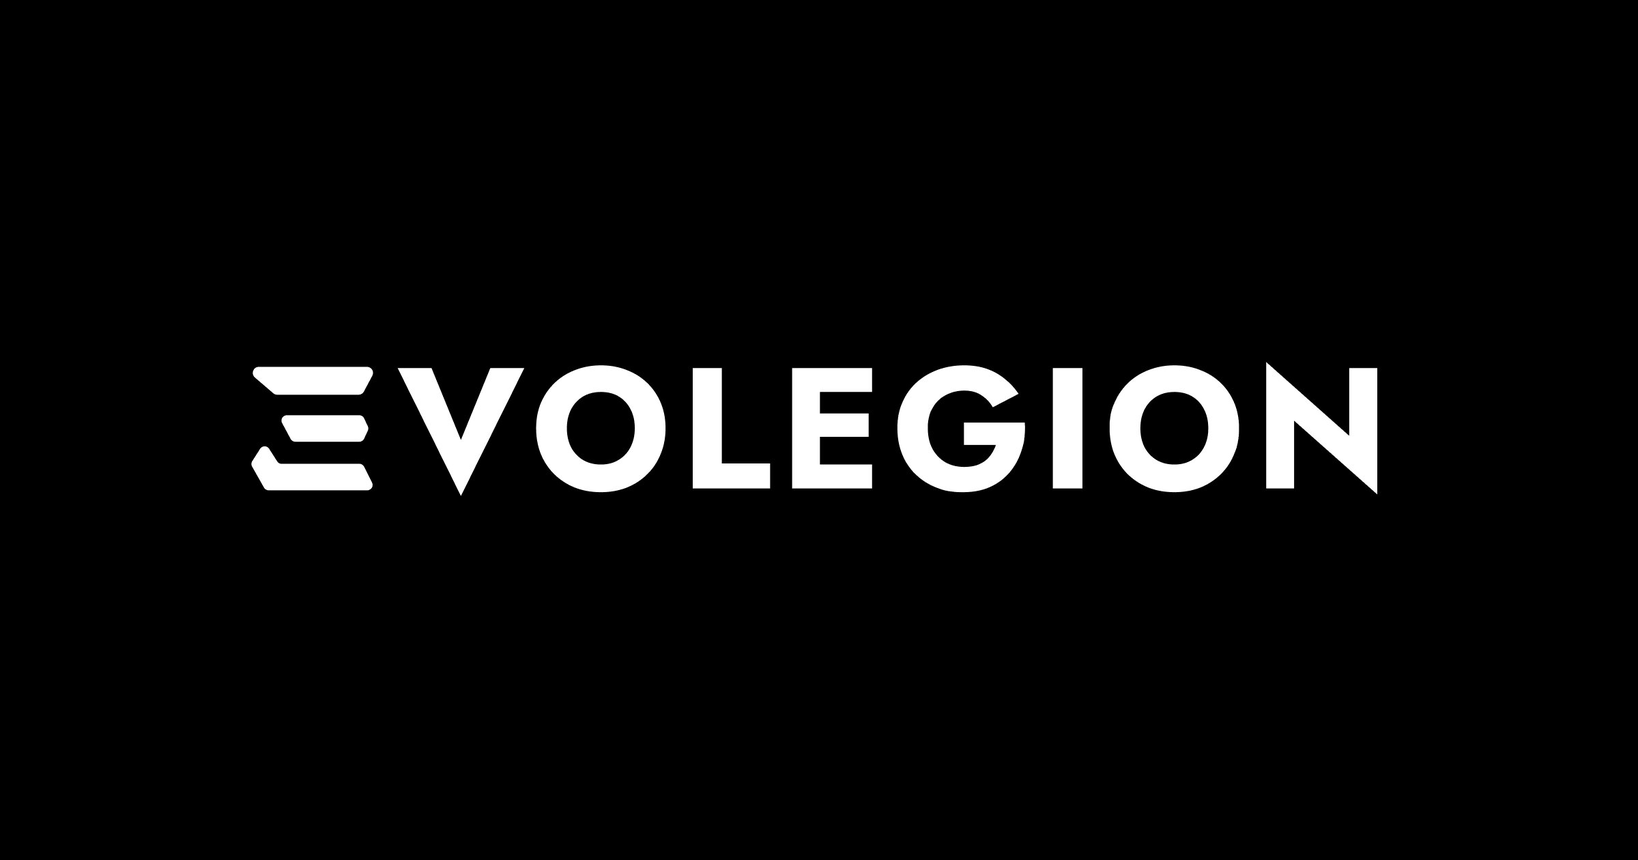
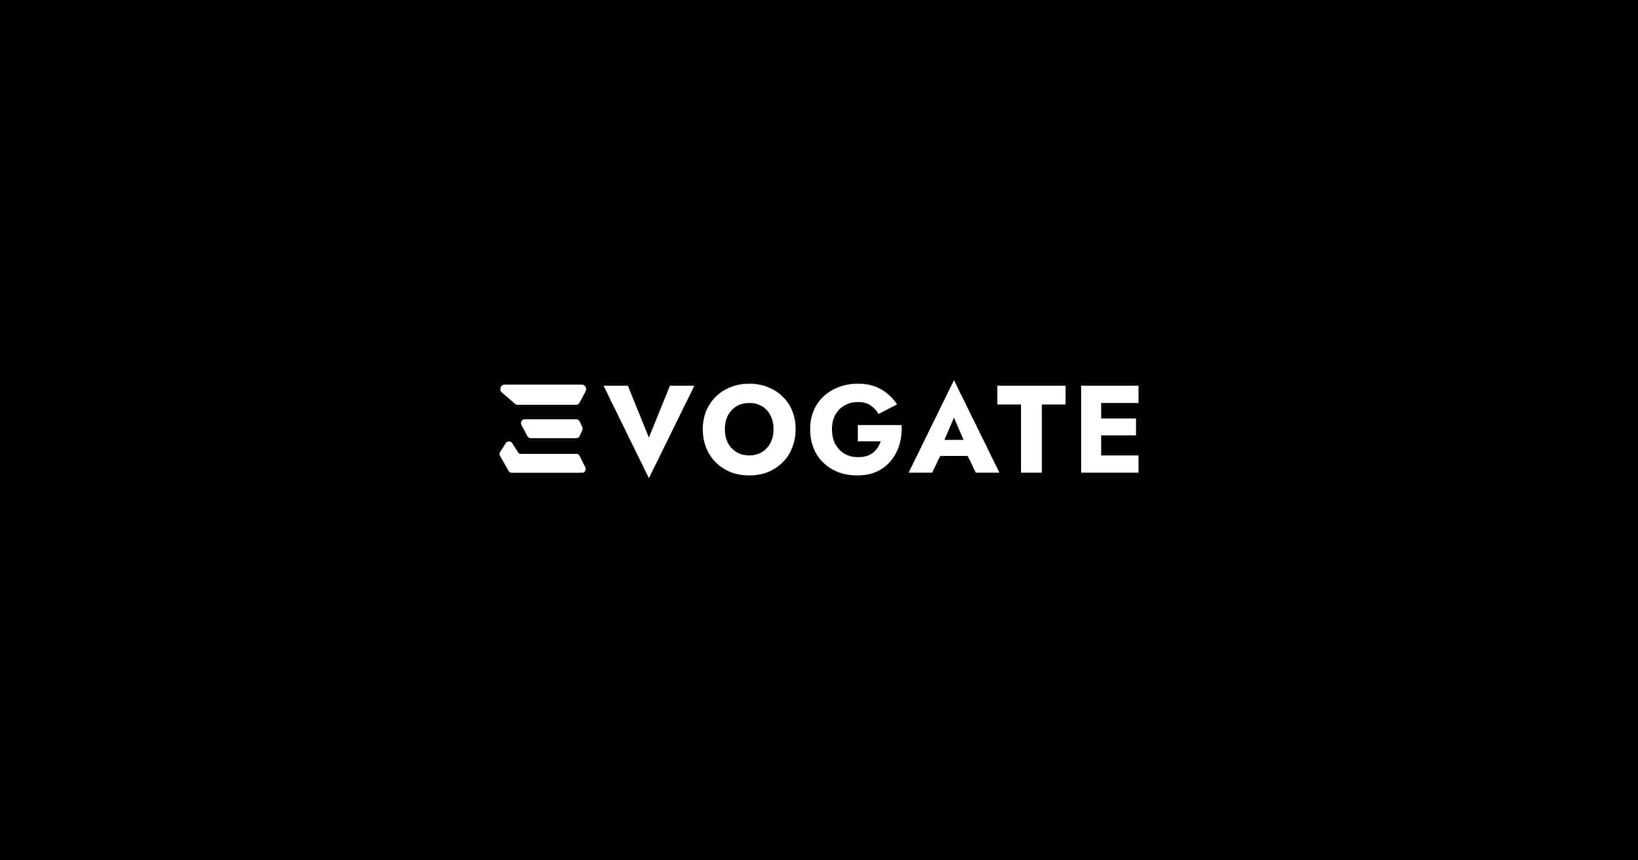
changed name to evogate

Changed region(s): [[0.1562, 0.4024, 0.8438, 0.5881]]

diff --git a/src/privacy.html b/src/privacy.html
@@ -3,21 +3,21 @@
 <head>
     <meta charset="UTF-8">
     <meta name="viewport" content="width=device-width, initial-scale=1.0">
-    <title>Evolegion - Terms and Condition</title>
+    <title>Evogate - Terms and Condition</title>
 
-    <meta name="title" content="Evolegion - A Web3 Brand Providing Tools and Services">
+    <meta name="title" content="Evogate - A Web3 Brand Providing Tools and Services">
     <meta name="description" content="A web3 brand providing tools and services with creativity and entertainment.">
     <meta name="keywords" content="web3,NFT,play to earn, ">
     <meta name="robots" content="index, follow">
     <meta name="language" content="English">
-    <link rel="canonical" href="https://evolegion.io" />
+    <link rel="canonical" href="https://evogate.io" />
     <meta content="assets/images/share.jpg" property="og:image">
 	<meta property="og:type" content="website">
-	<meta content="https://www.evolegion.io/" property="og:url">
-	<meta content="Evolegion - A Web3 Brand Providing Tools and Services" property="og:title">
+	<meta content="https://www.evogate.io/" property="og:url">
+	<meta content="Evogate - A Web3 Brand Providing Tools and Services" property="og:title">
 	<meta content="A web3 brand providing tools and services with creativity and entertainment." property="og:description" >
 	<meta name="twitter:card" content="summary_large_image">
-	<meta name="twitter:title" content="Evolegion - A Web3 Brand Providing Tools and Services">
+	<meta name="twitter:title" content="Evogate - A Web3 Brand Providing Tools and Services">
 	<meta name="twitter:description" content="A web3 brand providing tools and services with creativity and entertainment." >
 	<meta name="twitter:image" content="assets/images/share.jpg" >
 
@@ -46,15 +46,15 @@
     </nav>
     <div class="container">
         <div class="terms container-maxwidth-md mb-10">
-            <h1>Privacy Policy for Evolegion</h1>
+            <h1>Privacy Policy for Evogate</h1>
             <p>Last updated: May 21, 2022</p>
             <hr class="my-6" />
 
-            <p style="margin-top: 2rem;">At Evolegion, accessible from evolegion.io, one of our main priorities is the privacy of our visitors. This Privacy Policy document contains types of information that is collected and recorded by Evolegion and how we use it.</p>
+            <p style="margin-top: 2rem;">At Evogate, accessible from evogate.io, one of our main priorities is the privacy of our visitors. This Privacy Policy document contains types of information that is collected and recorded by Evogate and how we use it.</p>
 
             <p>If you have additional questions or require more information about our Privacy Policy, do not hesitate to contact us.</p>
 
-            <p>This Privacy Policy applies only to our online activities and is valid for visitors to our website with regards to the information that they shared and/or collect in Evolegion. This policy is not applicable to any information collected offline or via channels other than this website. Our Privacy Policy was created with the help of the Free Privacy Policy Generator</p>
+            <p>This Privacy Policy applies only to our online activities and is valid for visitors to our website with regards to the information that they shared and/or collect in Evogate. This policy is not applicable to any information collected offline or via channels other than this website. Our Privacy Policy was created with the help of the Free Privacy Policy Generator</p>
 
             <h2>Consent</h2>
 
@@ -82,11 +82,11 @@
 
             <h2>Log Files</h2>
 
-            <p>Evolegion follows a standard procedure of using log files. These files log visitors when they visit websites. All hosting companies do this and a part of hosting services' analytics. The information collected by log files include internet protocol (IP) addresses, browser type, Internet Service Provider (ISP), date and time stamp, referring/exit pages, and possibly the number of clicks. These are not linked to any information that is personally identifiable. The purpose of the information is for analyzing trends, administering the site, tracking users' movement on the website, and gathering demographic information.</p>
+            <p>Evogate follows a standard procedure of using log files. These files log visitors when they visit websites. All hosting companies do this and a part of hosting services' analytics. The information collected by log files include internet protocol (IP) addresses, browser type, Internet Service Provider (ISP), date and time stamp, referring/exit pages, and possibly the number of clicks. These are not linked to any information that is personally identifiable. The purpose of the information is for analyzing trends, administering the site, tracking users' movement on the website, and gathering demographic information.</p>
 
             <h2>Cookies and Web Beacons</h2>
 
-            <p>Like any other website, Evolegion uses 'cookies'. These cookies are used to store information including visitors' preferences, and the pages on the website that the visitor accessed or visited. The information is used to optimize the users' experience by customizing our web page content based on visitors' browser type and/or other information.</p>
+            <p>Like any other website, Evogate uses 'cookies'. These cookies are used to store information including visitors' preferences, and the pages on the website that the visitor accessed or visited. The information is used to optimize the users' experience by customizing our web page content based on visitors' browser type and/or other information.</p>
 
             <p>For more general information on cookies, please read <a href="https://www.termsfeed.com/blog/sample-cookies-policy-template/#What_Are_Cookies">the Cookies article on TermsFeed website</a>.</p>
 
@@ -94,15 +94,15 @@
 
             <h2>Advertising Partners Privacy Policies</h2>
 
-            <P>You may consult this list to find the Privacy Policy for each of the advertising partners of Evolegion.</p>
+            <P>You may consult this list to find the Privacy Policy for each of the advertising partners of Evogate.</p>
 
-            <p>Third-party ad servers or ad networks uses technologies like cookies, JavaScript, or Web Beacons that are used in their respective advertisements and links that appear on Evolegion, which are sent directly to users' browser. They automatically receive your IP address when this occurs. These technologies are used to measure the effectiveness of their advertising campaigns and/or to personalize the advertising content that you see on websites that you visit.</p>
+            <p>Third-party ad servers or ad networks uses technologies like cookies, JavaScript, or Web Beacons that are used in their respective advertisements and links that appear on Evogate, which are sent directly to users' browser. They automatically receive your IP address when this occurs. These technologies are used to measure the effectiveness of their advertising campaigns and/or to personalize the advertising content that you see on websites that you visit.</p>
 
-            <p>Note that Evolegion has no access to or control over these cookies that are used by third-party advertisers.</p>
+            <p>Note that Evogate has no access to or control over these cookies that are used by third-party advertisers.</p>
 
             <h2>Third Party Privacy Policies</h2>
 
-            <p>Evolegion's Privacy Policy does not apply to other advertisers or websites. Thus, we are advising you to consult the respective Privacy Policies of these third-party ad servers for more detailed information. It may include their practices and instructions about how to opt-out of certain options. </p>
+            <p>Evogate's Privacy Policy does not apply to other advertisers or websites. Thus, we are advising you to consult the respective Privacy Policies of these third-party ad servers for more detailed information. It may include their practices and instructions about how to opt-out of certain options. </p>
 
             <p>You can choose to disable cookies through your individual browser options. To know more detailed information about cookie management with specific web browsers, it can be found at the browsers' respective websites.</p>
 
@@ -129,17 +129,17 @@
 
             <p>Another part of our priority is adding protection for children while using the internet. We encourage parents and guardians to observe, participate in, and/or monitor and guide their online activity.</p>
 
-            <p>Evolegion does not knowingly collect any Personal Identifiable Information from children under the age of 13. If you think that your child provided this kind of information on our website, we strongly encourage you to contact us immediately and we will do our best efforts to promptly remove such information from our records.</p>
+            <p>Evogate does not knowingly collect any Personal Identifiable Information from children under the age of 13. If you think that your child provided this kind of information on our website, we strongly encourage you to contact us immediately and we will do our best efforts to promptly remove such information from our records.</p>
         </div>
 
 
         <div class="footer">
-            <p>©2023 Evolegion. All rights reserved </p>
+            <p>©2023 Evogate. All rights reserved </p>
             <div class="links">
                 <div style="line-height: 0;">
                     <a href="https://twitter.com/teamevolegion" target="_blank">Twitter</a>
                     <a href="https://www.youtube.com/channel/UCfJieutMxnUK4FANwNWWnQg" target="_blank">Youtube</a>
-                    <a href="https://github.com/Evolegion" target="_blank">Github</a>
+                    <a href="https://github.com/Evogate" target="_blank">Github</a>
                 </div>
                 <div style="line-height: 0;">
                     <a href="privacy.html">Privacy</a>
@@ -152,7 +152,7 @@
             <div class="panel">
                 <a href="https://twitter.com/teamevolegion" target="_blank">Twitter</a>
                 <a href="https://www.youtube.com/channel/UCfJieutMxnUK4FANwNWWnQg" target="_blank">Youtube</a>
-                <a href="https://github.com/Evolegion" target="_blank">Github</a>
+                <a href="https://github.com/Evogate" target="_blank">Github</a>
             </div>
 
             <button class="accordion">Legal</button>
@@ -161,7 +161,7 @@
                 <a href="terms-and-conditions.html">Terms and Condition</a>
             </div>
 
-            <p class="text pt-2">©2023 Evolegion. All rights reserved </p>
+            <p class="text pt-2">©2023 Evogate. All rights reserved </p>
         </div>
     </div>
 </body>

diff --git a/src/terms-and-conditions.html b/src/terms-and-conditions.html
@@ -3,21 +3,21 @@
 <head>
     <meta charset="UTF-8">
     <meta name="viewport" content="width=device-width, initial-scale=1.0">
-    <title>Evolegion - Terms and Condition</title>
+    <title>Evogate - Terms and Condition</title>
 
-    <meta name="title" content="Evolegion - A Web3 Brand Providing Tools and Services">
+    <meta name="title" content="Evogate - A Web3 Brand Providing Tools and Services">
     <meta name="description" content="A web3 brand providing tools and services with creativity and entertainment.">
     <meta name="keywords" content="web3,NFT,play to earn, ">
     <meta name="robots" content="index, follow">
     <meta name="language" content="English">
-    <link rel="canonical" href="https://evolegion.io" />
+    <link rel="canonical" href="https://evogate.io" />
     <meta content="assets/images/share.jpg" property="og:image">
 	<meta property="og:type" content="website">
-	<meta content="https://www.evolegion.io/" property="og:url">
-	<meta content="Evolegion - A Web3 Brand Providing Tools and Services" property="og:title">
+	<meta content="https://www.evogate.io/" property="og:url">
+	<meta content="Evogate - A Web3 Brand Providing Tools and Services" property="og:title">
 	<meta content="A web3 brand providing tools and services with creativity and entertainment." property="og:description" >
 	<meta name="twitter:card" content="summary_large_image">
-	<meta name="twitter:title" content="Evolegion - A Web3 Brand Providing Tools and Services">
+	<meta name="twitter:title" content="Evogate - A Web3 Brand Providing Tools and Services">
 	<meta name="twitter:description" content="A web3 brand providing tools and services with creativity and entertainment." >
 	<meta name="twitter:image" content="assets/images/share.jpg" >
 
@@ -62,7 +62,7 @@
             <p><strong>Country</strong> refers to:  Sweden</p>
             </li>
             <li>
-            <p><strong>Company</strong> (referred to as either &quot;the Company&quot;, &quot;We&quot;, &quot;Us&quot; or &quot;Our&quot; in this Agreement) refers to Evolegion, dada.</p>
+            <p><strong>Company</strong> (referred to as either &quot;the Company&quot;, &quot;We&quot;, &quot;Us&quot; or &quot;Our&quot; in this Agreement) refers to Evogate, dada.</p>
             </li>
             <li>
             <p><strong>Device</strong> means any device that can access the Service such as a computer, a cellphone or a digital tablet.</p>
@@ -77,7 +77,7 @@
             <p><strong>Third-party Social Media Service</strong> means any services or content (including data, information, products or services) provided by a third-party that may be displayed, included or made available by the Service.</p>
             </li>
             <li>
-            <p><strong>Website</strong> refers to evolegion, accessible from <a href="/" rel="external nofollow noopener" target="_blank">https://evolegion.io</a></p>
+            <p><strong>Website</strong> refers to evogate, accessible from <a href="/" rel="external nofollow noopener" target="_blank">https://evogate.io</a></p>
             </li>
             <li>
             <p><strong>You</strong> means the individual accessing or using the Service, or the company, or other legal entity on behalf of which such individual is accessing or using the Service, as applicable.</p>
@@ -124,17 +124,17 @@
             <p>We reserve the right, at Our sole discretion, to modify or replace these Terms at any time. If a revision is material We will make reasonable efforts to provide at least 30 days' notice prior to any new terms taking effect. What constitutes a material change will be determined at Our sole discretion.</p>
             <p>By continuing to access or use Our Service after those revisions become effective, You agree to be bound by the revised terms. If You do not agree to the new terms, in whole or in part, please stop using the website and the Service.</p>
             <h2>Contact Us</h2>
-            <p>If you have any questions about these Terms and Conditions, You can contact us by email: <a class="email" onclick= "document.location =  'mailto:support@evolegion.io'"">support@evolegion.io</a></p>
+            <p>If you have any questions about these Terms and Conditions, You can contact us by email: <a class="email" onclick= "document.location =  'mailto:support@evogate.io'"">support@evogate.io</a></p>
         </div>
 
 
         <div class="footer">
-            <p>©2023 Evolegion. All rights reserved </p>
+            <p>©2023 Evogate. All rights reserved </p>
             <div class="links">
                 <div style="line-height: 0;">
                     <a href="https://twitter.com/teamevolegion" target="_blank">Twitter</a>
                     <a href="https://www.youtube.com/channel/UCfJieutMxnUK4FANwNWWnQg" target="_blank">Youtube</a>
-                    <a href="https://github.com/Evolegion" target="_blank">Github</a>
+                    <a href="https://github.com/Evogate" target="_blank">Github</a>
                 </div>
                 <div style="line-height: 0;">
                     <a href="privacy.html">Privacy</a>
@@ -147,7 +147,7 @@
             <div class="panel">
                 <a href="https://twitter.com/teamevolegion" target="_blank">Twitter</a>
                 <a href="https://www.youtube.com/channel/UCfJieutMxnUK4FANwNWWnQg" target="_blank">Youtube</a>
-                <a href="https://github.com/Evolegion" target="_blank">Github</a>
+                <a href="https://github.com/Evogate" target="_blank">Github</a>
             </div>
 
             <button class="accordion">Legal</button>
@@ -156,7 +156,7 @@
                 <a href="terms-and-conditions.html">Terms and Condition</a>
             </div>
 
-            <p class="text pt-2">©2023 Evolegion. All rights reserved </p>
+            <p class="text pt-2">©2023 Evogate. All rights reserved </p>
         </div>
     </div>
 </body>

diff --git a/src/index.html b/src/index.html
@@ -3,21 +3,21 @@
 <head>
     <meta charset="UTF-8">
     <meta name="viewport" content="width=device-width, initial-scale=1.0">
-    <title>Evolegion - A Web3 Brand Providing Tools and Services</title>
+    <title>Evogate - A Web3 Brand Providing Tools and Services</title>
     
-    <meta name="title" content="Evolegion - A Web3 Brand Providing Tools and Services">
+    <meta name="title" content="Evogate - A Web3 Brand Providing Tools and Services">
     <meta name="description" content="A web3 brand providing tools and services with creativity and entertainment.">
     <meta name="keywords" content="web3,NFT,play to earn, ">
     <meta name="robots" content="index, follow">
     <meta name="language" content="English">
-    <link rel="canonical" href="https://evolegion.io" />
+    <link rel="canonical" href="https://evogate.io" />
     <meta content="assets/images/share.jpg" property="og:image">
 	<meta property="og:type" content="website">
-	<meta content="https://www.evolegion.io/" property="og:url">
-	<meta content="Evolegion - A Web3 Brand Providing Tools and Services" property="og:title">
+	<meta content="https://www.evogate.io/" property="og:url">
+	<meta content="Evogate - A Web3 Brand Providing Tools and Services" property="og:title">
 	<meta content="A web3 brand providing tools and services with creativity and entertainment." property="og:description" >
 	<meta name="twitter:card" content="summary_large_image">
-	<meta name="twitter:title" content="Evolegion - A Web3 Brand Providing Tools and Services">
+	<meta name="twitter:title" content="Evogate - A Web3 Brand Providing Tools and Services">
 	<meta name="twitter:description" content="A web3 brand providing tools and services with creativity and entertainment." >
 	<meta name="twitter:image" content="assets/images/share.jpg" >
 
@@ -47,7 +47,7 @@
                 <img src="./assets/images/logo.svg" alt="logo">    
             </div>
             <div class="logo-text-img">
-                <img src="./assets/images/logo-text.svg" alt="evolegion">
+                <img src="./assets/images/logo-text.svg" alt="evogate">
             </div>
         </div>          
         <div class="scroll">
@@ -83,7 +83,7 @@
                     <picture>  
                         <source srcset="./assets/images/art-engine.webp" type="image/webp">     
                         <source srcset="./assets/images/art-engine.jpg" type="image/jpg">
-                        <img src="./assets/images/art-engine.webp" alt="evolegion art engine">
+                        <img src="./assets/images/art-engine.webp" alt="evogate art engine">
                     </picture>
                     <div class="swiper-content my-2">
                         <h2>Mixer Studio</h2>
@@ -138,12 +138,12 @@
             <a id="email" class="button">Contact</a>
         </div>
         <div class="footer">
-            <p>©2023 Evolegion. All rights reserved </p>
+            <p>©2023 Evogate. All rights reserved </p>
             <div class="links">
                 <div style="line-height: 0;">
-                    <a href="https://twitter.com/teamevolegion" target="_blank">Twitter</a>
+                    <a href="https://twitter.com/evogate_" target="_blank">Twitter</a>
                     <a href="https://www.youtube.com/channel/UCfJieutMxnUK4FANwNWWnQg" target="_blank">Youtube</a>
-                    <a href="https://github.com/Evolegion" target="_blank">Github</a>
+                    <a href="https://github.com/Evogate" target="_blank">Github</a>
                 </div>
                 <div style="line-height: 0;">
                     <a href="privacy.html">Privacy</a>
@@ -156,7 +156,7 @@
             <div class="panel">
                 <a href="https://twitter.com/teamevolegion" target="_blank">Twitter</a>
                 <a href="https://www.youtube.com/channel/UCfJieutMxnUK4FANwNWWnQg" target="_blank">Youtube</a>
-                <a href="https://github.com/Evolegion" target="_blank">Github</a>
+                <a href="https://github.com/Evogate" target="_blank">Github</a>
             </div>
 
             <button class="accordion">Legal</button>
@@ -165,7 +165,7 @@
                 <a href="terms-and-conditions.html">Terms and Condition</a>
             </div>
 
-            <p class="text pt-2">©2023 Evolegion. All rights reserved </p>
+            <p class="text pt-2">©2023 Evogate. All rights reserved </p>
         </div>
     </div>
     <script type="module" src="index.js"></script>

diff --git a/src/404.html b/src/404.html
@@ -3,21 +3,21 @@
 <head>
     <meta charset="UTF-8">
     <meta name="viewport" content="width=device-width, initial-scale=1.0">
-    <title>Evolegion - 404 Not Found</title>
+    <title>Evogate - 404 Not Found</title>
 
-    <meta name="title" content="Evolegion - A Web3 Brand Providing Tools and Services">
+    <meta name="title" content="Evogate - A Web3 Brand Providing Tools and Services">
     <meta name="description" content="A web3 brand providing tools and services with creativity and entertainment.">
     <meta name="keywords" content="web3,NFT,play to earn, ">
     <meta name="robots" content="index, follow">
     <meta name="language" content="English">
-    <link rel="canonical" href="https://evolegion.io" />
+    <link rel="canonical" href="https://evogate.io" />
     <meta content="assets/images/share.jpg" property="og:image">
 	<meta property="og:type" content="website">
-	<meta content="https://www.evolegion.io/" property="og:url">
-	<meta content="Evolegion - A Web3 Brand Providing Tools and Services" property="og:title">
+	<meta content="https://www.evogate.io/" property="og:url">
+	<meta content="Evogate - A Web3 Brand Providing Tools and Services" property="og:title">
 	<meta content="A web3 brand providing tools and services with creativity and entertainment." property="og:description" >
 	<meta name="twitter:card" content="summary_large_image">
-	<meta name="twitter:title" content="Evolegion - A Web3 Brand Providing Tools and Services">
+	<meta name="twitter:title" content="Evogate - A Web3 Brand Providing Tools and Services">
 	<meta name="twitter:description" content="A web3 brand providing tools and services with creativity and entertainment." >
 	<meta name="twitter:image" content="assets/images/share.jpg" >
 
@@ -42,12 +42,12 @@
             <a href="/" class="button">Home</a>
         </div>
         <div class="footer">
-            <p>©2023 Evolegion. All rights reserved </p>
+            <p>©2023 Evogate. All rights reserved </p>
             <div class="links">
                 <div style="line-height: 0;">
-                    <a href="https://twitter.com/teamevolegion" target="_blank">Twitter</a>
+                    <a href="https://twitter.com/evogate_" target="_blank">Twitter</a>
                     <a href="https://www.youtube.com/channel/UCfJieutMxnUK4FANwNWWnQg" target="_blank">Youtube</a>
-                    <a href="https://github.com/Evolegion" target="_blank">Github</a>
+                    <a href="https://github.com/Evogate" target="_blank">Github</a>
                 </div>
                 <div style="line-height: 0;">
                     <a href="privacy.html">Privacy</a>
@@ -60,7 +60,7 @@
             <div class="panel">
                 <a href="https://twitter.com/teamevolegion" target="_blank">Twitter</a>
                 <a href="https://www.youtube.com/channel/UCfJieutMxnUK4FANwNWWnQg" target="_blank">Youtube</a>
-                <a href="https://github.com/Evolegion" target="_blank">Github</a>
+                <a href="https://github.com/Evogate" target="_blank">Github</a>
             </div>
 
             <button class="accordion">Legal</button>
@@ -69,7 +69,7 @@
                 <a href="terms-and-conditions.html">Terms and Condition</a>
             </div>
 
-            <p class="text pt-2">©2023 Evolegion. All rights reserved </p>
+            <p class="text pt-2">©2023 Evogate. All rights reserved </p>
         </div>
     </div>        
 </body>

diff --git a/src/style.css b/src/style.css
@@ -65,7 +65,7 @@ canvas.webgl {
 #content {
     --target: 100%;
     width: 100%;
-    background: linear-gradient(to right, #fff var(--target), #000 var(--target));
+    background: linear-gradient(to right, #F2F1EB var(--target), #000 var(--target));
     display: flex;
     height: 100vh;
     justify-content: center;
@@ -305,6 +305,7 @@ canvas.webgl {
     position: relative;
     width: 0;
     overflow: hidden;
+    padding-left: 10px;
 }
 
 .wrapper {
@@ -356,7 +357,7 @@ canvas.webgl {
 }
 
 .blue{
-    background-color: #000E64;
+    background-color: #241ff3;
 }
 
 .column-img{
